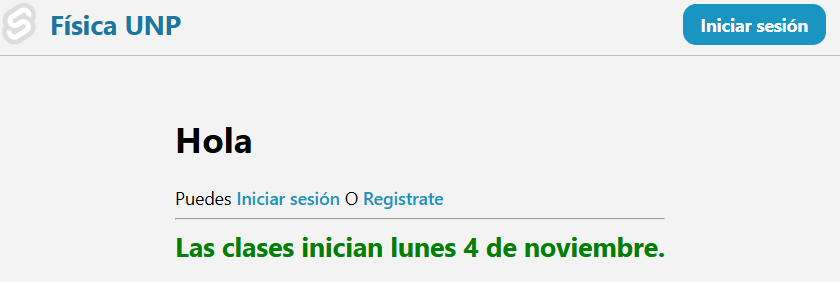
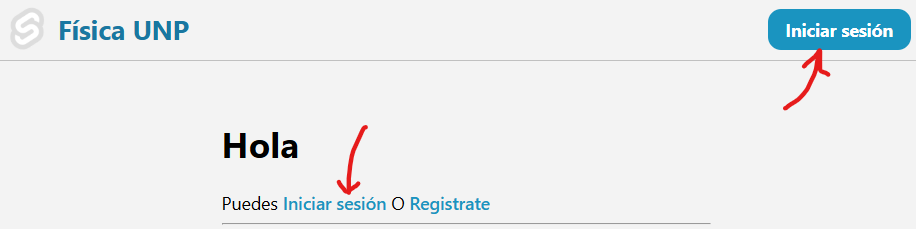
Editing user guide

diff --git a/README.md b/README.md
@@ -16,4 +16,21 @@ A continuación se muestra la guía de uso de la sección de profesores
 
 El profesor puede ingresar con el lógin de la siguiente manera:
 
+De click en uno de los siguientes botones:
+
 ![pantalla principal](user_guide/f1.png) "pantalla principal"
+
+Llenando el formulario:
+
+* El código por lo general al momento de registro será el DNI
+* Y la contraseña mínimo de 8 caractres
+
+![Login](user_guide/f2.png) "Login"
+
+### 2.1.2 Registro
+
+El profesor puede registrase haciendo click en el siguiente botón:
+![Link de registro](user_guide/f3.png) "link de registro"
+
+Llenando el formulario:
+![Registro](user_guide/f4.png) "Registro"
